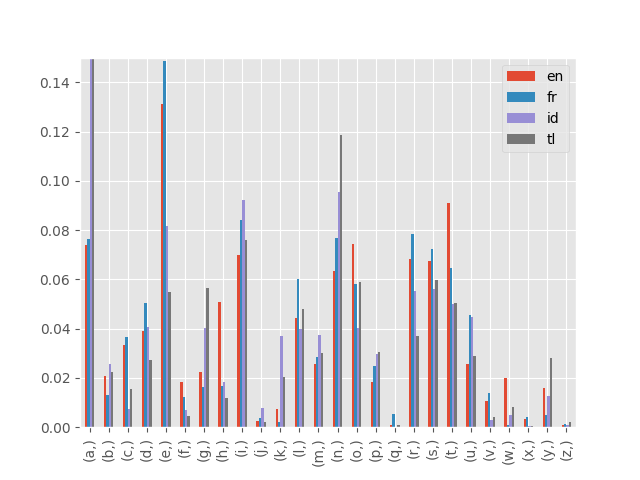
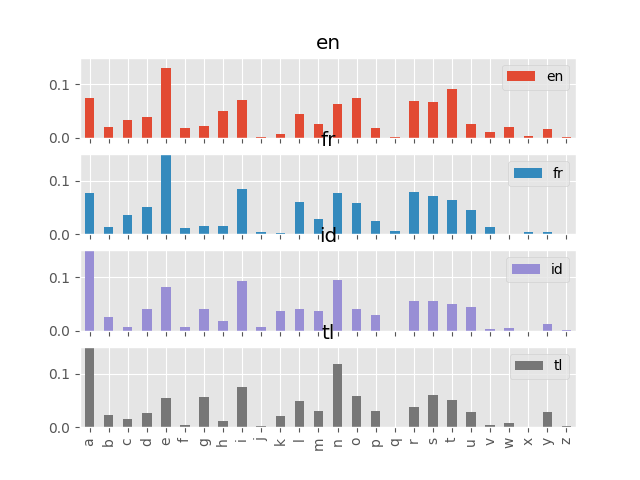
review ch4-4

Changed region(s): [[0.0625, 0.125, 0.9062, 0.9688], [0.5, 0.0625, 0.5312, 0.125]]

diff --git a/ch4/lang_train2.py b/ch4/lang_train2.py
@@ -1,44 +1,43 @@
-from sklearn import svm,metrics
-import os.path,re,json,glob
+from sklearn import svm, metrics
+import json, os.path, glob, re
 
+#파일 읽어와서 확인하는 
 def checkLang(filename):
-    basename = os.path.basename(filename)
-    label = re.match(r'^[a-z]{2,}',basename).group()
-    with open(filename,'r',encoding='utf-8') as fp:
+    base = os.path.basename(filename)
+    label = re.match('^[a-z]{2,}',base).group()
+    with open(filename ,'r',encoding= 'utf-8') as fp:
         text = fp.read()
     text = text.lower()
-    lang = [0 for n in range(0,26)]
-    ordA = ord('a')
-    ordB = ord('z')
-    for letter in text:
-        inputOrd = ord(letter)
-        if ordA <= inputOrd <= ordB:
-            lang[inputOrd - ordA] += 1
-    total = sum(lang)
-    freq = list(map(lambda n:n/total,lang))
-    return (freq,label)
+    lang_dict = [0 for n in range(0,26)]
+    ord_a = ord('a')
+    ord_z = ord('z')
+    for f in text:
+        ch = ord(f)
+        if ord_a <= ch <= ord_z:
+            lang_dict[ch-ord_a] += 1
+    total = sum(lang_dict)
+    return (list(map(lambda n : n/total,lang_dict)),label)      
 
 
 def load_file(filename):
     label = []
-    freq = []
+    data = []
+#전체 파일 리스트
     fileList = glob.glob(filename)
     for f in fileList:
-        data = checkLang(f)
-        label.append(data[1])
-        freq.append(data[0])
-    return (freq,label)
+        fileData = checkLang(f)
+        label.append(fileData[1])
+        data .append(fileData[0])
+    return (data,label)
 
 
-testData = load_file("./lang/test/*.txt")
-trainData = load_file('./lang/train/*.txt')
-
+study_data  = load_file('./lang/train/*.txt')
+test_data  = load_file('./lang/test/*.txt')
 clf = svm.SVC()
-clf.fit(trainData[0],trainData[1])
-pre = clf.predict(testData[0])
 
-score = metrics.accuracy_score(pre,testData[1])
-report = metrics.classification_report(pre,testData[1])
-
+clf.fit(study_data[0],study_data[1])
+pre = clf.predict(test_data[0])
+score = metrics.accuracy_score(pre,test_data[1])
+report = metrics.classification_report(pre,test_data[1])
 print(score)
 print(report)

diff --git a/ch4/lang-webapp2.py b/ch4/lang-webapp2.py
@@ -1,0 +1,36 @@
+from sklearn.externals import joblib
+import cgi, os.path
+
+loc = './root/cgi-bin/freq.pkl'
+clf = joblib.load(loc)
+
+def showhtml(text,msg=""):
+    print('Content-Type:text/html;charset=euc_kr')
+    print("")
+    print("""<body><h1>언어 판별기</h1>
+                <textarea name="text">{0}</textarea>
+                <p><input type="submit" value="판정"><p>
+                <p>{1}</p>
+                """.format(cgi.escape(text),msg))
+
+def distinct(text):
+    text = text.lower()
+    orda,ordz = (ord('a'),ord('z'))
+    lang = [0 for n in range(26)]
+    for ch in text:
+        ordch = ord(ch)
+        if orda <= ordch <= ordz:
+            lang[ordch-orda] += 1
+    totla = sum(lang)
+    freq = list(map(lambda a :a/total,lang)
+    pre = clf.predict([freq])
+    lang = {'en':'영어','fr':'프랑스어','id':'인도네시아어','tl':'타갈로그어'}
+    return lang[pre[0]]
+
+form = cgi.FieldStorage()
+text = form.getvalue("text",default = "")
+if text != "":
+    resultData = distinct(text)
+    msg = '결과는 '+resultData
+showhtml(text,msg)
+            

diff --git a/ch4/lang-plot3.py b/ch4/lang-plot3.py
@@ -1,0 +1,23 @@
+import matplotlib.pyplot as plt
+import pandas as pd 
+import json
+#그래프를 만들기 전에 2차원 배열로 만들어주기
+with open ('./lang/freq.json','r',encoding = 'utf-8') as fp:
+    freq = json.load(fp)
+
+
+langdic = {}
+for idx, label in enumerate(freq[0]['labels']):
+    data = freq[0]['freqs'][idx]
+    if not (label in langdic):
+        langdic[label] = data
+        continue
+    for i, v in enumerate(data):
+        langdic[label][i] = (langdic[label][idx]+v)/2
+
+ascilist = [chr(n) for n in range(97,97+26)]
+asciiLine = pd.DataFrame(langdic ,index = ascilist)
+
+plt.style.use('ggplot')
+asciiLine.plot(kind="bar",subplots = True, ylim = (0,0.15))
+plt.savefig("lang-plot3.png")

diff --git a/ch4/lang-plot2.py b/ch4/lang-plot2.py
@@ -1,11 +1,25 @@
 import matplotlib.pyplot as plt 
-import pandas 
+import pandas  as pd
 import json 
 
 
 with open('./lang/freq.json','r',encoding='utf-8') as fp :
     freq = json.load(fp)
 
+langdic = {}
+for i,label in enumerate(freq[0]['labels']):    
+    fq = freq[0]['freqs'][i]
+    if not ( label in langdic):
+        langdic[label] = fq
+        continue
+    for i, v in enumerate(fq):
+        langdic[label][i] = (langdic[label][i] + v)/2
 
-for i,label in enumerate(freq[0]['labels']):
-    print(label)
+
+ascilist = [chr(n) for n in range(97,97+26)]
+dataFrame = pd.DataFrame(langdic,index = ascilist)
+
+plt.style.use('ggplot')
+dataFrame.plot(kind = 'bar',subplots = True,ylim=(0,0.15))
+
+
